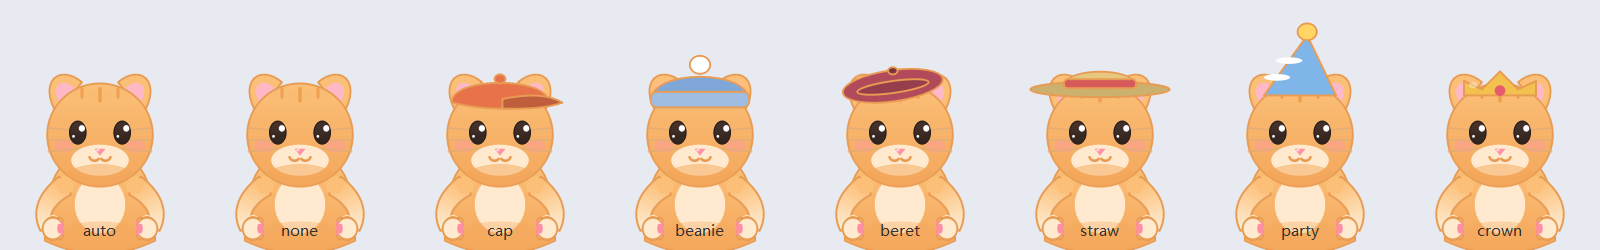
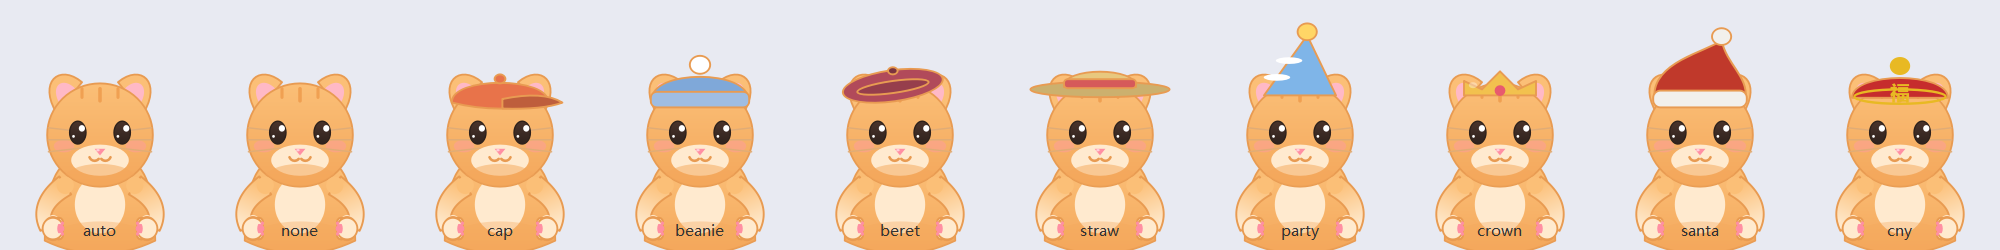
#16: 更新 PyInstaller spec（显式引入 catclock 包）、重新打包 exe、补全帽子预览与 README

diff --git a/hats_preview.py b/hats_preview.py
@@ -8,7 +8,8 @@ from catclock.data import CHARACTERS
 from catclock.draw import draw_cat
 
 HATS = [("auto", "auto"), ("none", "none"), ("cap", "cap"), ("beanie", "beanie"),
-        ("beret", "beret"), ("straw", "straw"), ("party", "party"), ("crown", "crown")]
+        ("beret", "beret"), ("straw", "straw"), ("party", "party"), ("crown", "crown"),
+        ("santa", "santa"), ("cny", "cny")]
 
 app = QApplication(sys.argv)
 W, H = 200 * len(HATS), 250

diff --git a/README.md b/README.md
@@ -7,12 +7,18 @@
 ## 功能
 
 - **倒计时**：上班前 / 工作中（进度条）/ 下班后 / 休息日（每周可配，适配单休轮休）
-- **9 只角色**：橘猫、奶牛猫、黑猫、三花猫、白猫、蓝猫、暹罗猫、虎斑猫、熊猫
+- **21 个角色**：橘猫、奶牛猫、黑猫、三花猫、白猫、蓝猫、暹罗猫、虎斑猫、熊猫 + 十二生肖
 - **5 套主题**：奶油、草莓、薄荷、夜幕、柠檬
-- **天气**：Open-Meteo 免费接口（免 key），城市支持逐级降级匹配（区县名也能查）；雷暴/酷暑/严寒猫有对应反应
-- **情绪价值**：发工资倒计时、打工人语录轮播（周五专属 + 天气联动）、瞳孔跟随鼠标、摇尾巴、摸猫彩蛋、待机伸懒腰/打哈欠、整点报时（7-22 点防打扰）、久坐提醒（人不在不打扰）、深夜关怀、休息日前夜提示
+- **天气**：Open-Meteo 免费接口（免 key），城市支持逐级降级匹配（区县名也能查）；雷暴/酷暑/严寒猫有对应反应；新增空气质量提示
+- **分组设置窗口**：右键「设置…」打开，外观 / 时间 / 通知 / 天气 / 高级五个标签页，替代原先长菜单
+- **帽子 & 配饰**：6 款常规帽子 + 圣诞帽/福帽（节日自动）；圆眼镜/墨镜/耳机/领结
+- **动画关键帧**：待机动作（伸懒腰/打哈欠/挥手/摇尾）带缓动；静止时自动降频省电
+- **语录自定义**：`%APPDATA%\CatClock\quotes.json` 可自行覆盖时段/周五/天气/久坐文案
+- **工作统计**：在岗/加班时长，支持导出 CSV
+- **更新检查**：启动时静默检测 GitHub Release
+- **情绪价值**：发工资倒计时、打工人语录轮播（周五专属 + 天气联动）、瞳孔跟随鼠标、摇尾巴、摸猫彩蛋、整点报时（7-22 点防打扰）、久坐提醒（人不在不打扰）、深夜关怀、休息日前夜提示
 - **智能感知**：人离开 3 分钟猫打瞌睡（Zzz），回来主动打招呼；下班前 30/10 分钟预告、上班前 10 分钟提醒、到点通知均可开关
-- **交互**：右键菜单全配置、滚轮等比缩放（60%–160%）、迷你模式、单实例锁、多屏拖动
+- **交互**：右键菜单高频项 + 设置入口、滚轮等比缩放（60%–160%）、迷你模式、单实例锁、多屏拖动
 
 ## 使用
 
@@ -24,9 +30,10 @@
 pip install PyQt6
 python cat_clock.py        # 源码运行
 python preview_all.py      # 渲染 角色×主题 预览图 preview.png
+python hats_preview.py     # 渲染所有帽子预览图 preview_hats.png
 ```
 
-打包：`pyinstaller --noconsole --onefile --name CatClock --icon cat.ico cat_clock.py`
+打包：`pyinstaller CatClock.spec`（已配置 onefile + icon + catclock 包）
 
 ## 配置
 
